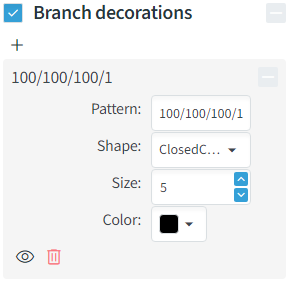
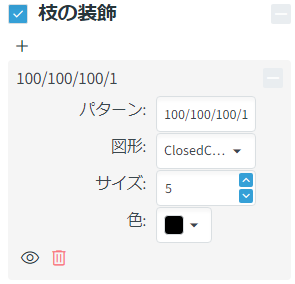
docs: update quick start

diff --git a/docs/ja/manuals/quick_start.md b/docs/ja/manuals/quick_start.md
@@ -7,15 +7,15 @@
   - [Swap](#swap)
   - [Subtree](#subtree)
 - [表示メニュー](#表示メニュー)
-  - [Layout](#layout)
-  - [Tree](#tree)
-  - [Search](#search)
-  - [Leaf labels](#leaf-labels)
+  - [レイアウト](#レイアウト)
+  - [ツリー](#ツリー)
+  - [検索](#検索)
+  - [系統名](#系統名)
   - [Clade labels](#clade-labels)
-  - [Node Values](#node-values)
-  - [Branch values](#branch-values)
-  - [Branch decorations](#branch-decorations)
-  - [Scale bar](#scale-bar)
+  - [結節点の値](#結節点の値)
+  - [枝の値](#枝の値)
+  - [枝の装飾](#枝の装飾)
+  - [スケールバー](#スケールバー)
 - [プロジェクトファイルの管理](#プロジェクトファイルの管理)
 - [エクスポート](#エクスポート)
 
@@ -49,7 +49,7 @@
 ![Reroot](images/reroot.png)
 
 白抜き四角（枝中）または黒塗り四角（結節点）をクリックすることでリルートすることができます。
-白抜き四角をクリックするとrootedに，黒塗り四角をクリックするとunrootedな形でリルートできます。
+白抜き四角をクリックするとrootedに、黒塗り四角をクリックするとunrootedな形でリルートできます。
 
 ### Swap
 ![Swap](images/swap.png)
@@ -68,79 +68,87 @@
 ![menu left](images/menu_left.png)
 画面左のサイドバーから表示内容をカスタマイズすることができます。
 
-### Layout
+### レイアウト
 ![Layout](images/menu_left_layout.png)
 
 ツリー全体の表示方法について編集できます。
-- Collapseボタン：枝選択時に押すと，選択中の枝を折りたたんで三角形の表示に変えられます。折りたたみ中の枝を選択中にもう一度押すと折りたたみを解除します
+- Collapseボタン：枝選択時に押すと、選択中の枝を折りたたんで三角形の表示に変えられます。折りたたみ中の枝を選択中にもう一度押すと折りたたみを解除します
 - OrderAボタン：枝の長さの昇順で枝の順番を並び替えます
 - OrderDボタン：枝の長さの降順で枝の順番を並び替えます
-- Collapse type：折りたたみの表示を変更します
-  - TopMax：右上の頂点が最大の枝長に，右下の頂点が最小の枝長に対応します
-  - BottomMax：右上の頂点が最小の枝長に，右下の頂点が最大の枝長に対応します
+- 折りたたみタイプ：折りたたみの表示を変更します
+  - TopMax：右上の頂点が最大の枝長に、右下の頂点が最小の枝長に対応します
+  - BottomMax：右上の頂点が最小の枝長に、右下の頂点が最大の枝長に対応します
   - AllMax：右側の両頂点が最大の枝長に対応します
-  - Constant：右側の両頂点が直下にある「Width」の枝長換算で配置されます
+  - Constant：右側の両頂点が直下にある「横幅」の枝長換算で配置されます
 
-### Tree
+### ツリー
 ![Tree](images/menu_left_tree.png)
 
 ツリーの一般的な設定を編集できます。
-- Scale X：横方向の拡大率
-- Scale Y：縦方向の拡大率
-- Branch thickness：枝の太さ
-- Default branch length：枝長が未指定の場合に利用する枝長のダミー値
+- X拡大率：横方向の拡大率
+- Y拡大率：縦方向の拡大率
+- 枝の太さ：描画される枝の太さ
+- デフォルトの枝長：枝長が未指定の場合に利用する枝長のダミー値
 
-### Search
+> [!TIP]
+> X・Y拡大率のスライダーは、フォーカスした状態下では→キー・←キーで1ずつ微調整できます。
+
+### 検索
 ![Search](images/menu_left_search.png)
 
 条件にマッチする系統を検索します。
 - テキストボックス：検索文字列を入力します
 - 虫眼鏡マーク：クリックで検索を行います
-- Target：検索対象を選択します
+- 検索対象：検索対象を選択します
   - Taxon：リーフ名
   - Supports：サポート値
-- Ignore case：チェックを入れると大文字/小文字の区別を無視します
-- Use regex：チェックを入れると正規表現で検索を行います
+- 大/小文字の無視：チェックを入れると大文字/小文字の区別を無視します
+- 正規表現を使用：チェックを入れると正規表現で検索を行います
 
-### Leaf labels
+### 系統名
 ![Leaf labels](images/menu_left_leaf_labels.png)
 
 リーフの表示を設定します。
 - タイトル横のチェックボックス：表示の有無
-- Font size：リーフのフォントサイズ
+- フォントサイズ：リーフのフォントサイズ
 
 ### Clade labels
-![Clade labels](images/menu_left_clade_labels.png)
+![クレード名](images/menu_left_clade_labels.png)
 
 クレード名の表示を設定します。
 - タイトル横のチェックボックス：表示の有無
-- Font size：フォントサイズ
-- Line thickness：クレード範囲を表す直線の太さ
+- フォントサイズ：クレード名のフォントサイズ
+- 線の太さ：クレード範囲を表す直線の太さ
 
-### Node Values
+### 結節点の値
 ![Node values](images/menu_left_node_values.png)
 
 結節点の横の値の表示を設定します。
 
 - タイトル横のチェックボックス：表示の有無
-- Value: 表示する値
+- 表示値: 表示する値を選択
   - Supports：サポート値
   - BranchLength：枝長
-- Font size：フォントサイズ
+- フォントサイズ：結節点の値のフォントサイズ
 
-### Branch values
+### 枝の値
 ![Branch values](images/menu_left_branch_values.png)
 
 枝の上に表示する値の表示を設定します。
 
 - タイトル横のチェックボックス：表示の有無
-- Value: 表示する値
+- 表示値: 表示する値を選択
   - Supports：サポート値
   - BranchLength：枝長
-- Font size：フォントサイズ
-- Hide pattern：指定した正規表現にマッチする値を非表示にします
+- フォントサイズ：枝の値のフォントサイズ
+- 非表示パターン：指定した正規表現にマッチする値を非表示にします
 
-### Branch decorations
+> [!TIP]
+> 非表示パターンの正規表現の例
+> - `BP` が100である枝を非表示にしたい場合： `^100$`
+> - `UFBP/BP` のうち、UFBP≧95＆BP≧90を非表示にしたい場合： `^(9[5-9]|100)/(9\d|100)$`
+
+### 枝の装飾
 ![Branch decorations](images/menu_left_branch_decorations.png)
 
 枝の装飾の表示を設定します。
@@ -148,39 +156,39 @@
 - タイトル横のチェックボックス：表示の有無
 - +ボタン：新たな装飾の設定を追加します。
 - 装飾ごとの設定事項
-  - Pattern：装飾を行う枝の値の条件（正規表現）
-  - Shape：装飾の図形を選択します
+  - パターン：装飾を行う枝の値の条件（正規表現）
+  - 図形：装飾の図形を選択します
     - Closed Circle：塗りつぶされた円
     - Open Circle：白抜きの円
     - Closed Rectangle：塗りつぶされた正方形
     - Open Rectangle：白抜きの正方形
-  - Size：装飾のサイズ
-  - Color：装飾の色
+  - サイズ：装飾のサイズ
+  - 色：装飾の色
   - 目のボタン：表示/非表示を切り替えます
   - 赤いゴミ箱ボタン：設定を削除します
 
-### Scale bar
+### スケールバー
 ![Scale bar](images/menu_left_scale_bar.png)
 
 スケールバーの表示を設定します。
 
 - タイトル横のチェックボックス：表示の有無
-- Value: スケールバーとして表示する枝長の値
-- Font size：枝長のフォントサイズ
-- Bar thickness：バー部分の太さ
+- 縮尺: スケールバーとして表示する枝長の値
+- フォントサイズ：枝長のフォントサイズ
+- 線の太さ：バー部分の太さ
 
 ## プロジェクトファイルの管理
-メニューのFile→SaveまたはCtrl+Sでこれまでの編集状況を，プロジェクトファイルとして保存することができます。
-プロジェクトファイルは `.treeprj` の拡張子で表され，TreeMage独自のフォーマットとなっています。
+メニューのFile→SaveまたはCtrl+Sでこれまでの編集状況を、プロジェクトファイルとして保存することができます。
+プロジェクトファイルは `.treeprj` の拡張子で表され、TreeMage独自のフォーマットとなっています。
 
 > [!TIP]
 > TREEPRJファイルの実体はJSONファイルをGZIP形式に圧縮したものとなっています。
-> 自己責任とはなりますが，JSONファイルを編集してGZIP化することでTreeMage外で編集状況をいじることも可能です。
+> 自己責任とはなりますが、JSONファイルを編集してGZIP化することでTreeMage外で編集状況をいじることも可能です。
 
-一度保存したプロジェクトファイルはメニューのFile→OpenまたはCtrl+O，ファイルマネージャーからのdrag & dropで読み込むことができます。
+一度保存したプロジェクトファイルはメニューのFile→OpenまたはCtrl+O、ファイルマネージャーからのdrag & dropで読み込むことができます。
 
 ## エクスポート
-TreeMageは編集した系統樹を，ツリーのファイルとしても，画像としても出力することができます。
+TreeMageは編集した系統樹を、ツリーのファイルとしても、画像としても出力することができます。
 メニューのFile→Exportからフォーマットを選択できます。
 以下がサポートしているフォーマットです。
 
@@ -190,5 +198,5 @@ TreeMageは編集した系統樹を，ツリーのファイルとしても，画
 - PDF
 
 > [!IMPORTANT]
-> 現状，PDF出力は技術的問題からレイヤー分け・グルーピングができていません。
+> 現状、PDF出力は技術的問題からレイヤー分け・グルーピングができていません。
 > Adobe Illustrator等で編集を行いたい場合は**SVGとして出力**してから開くことを強く推奨します。
